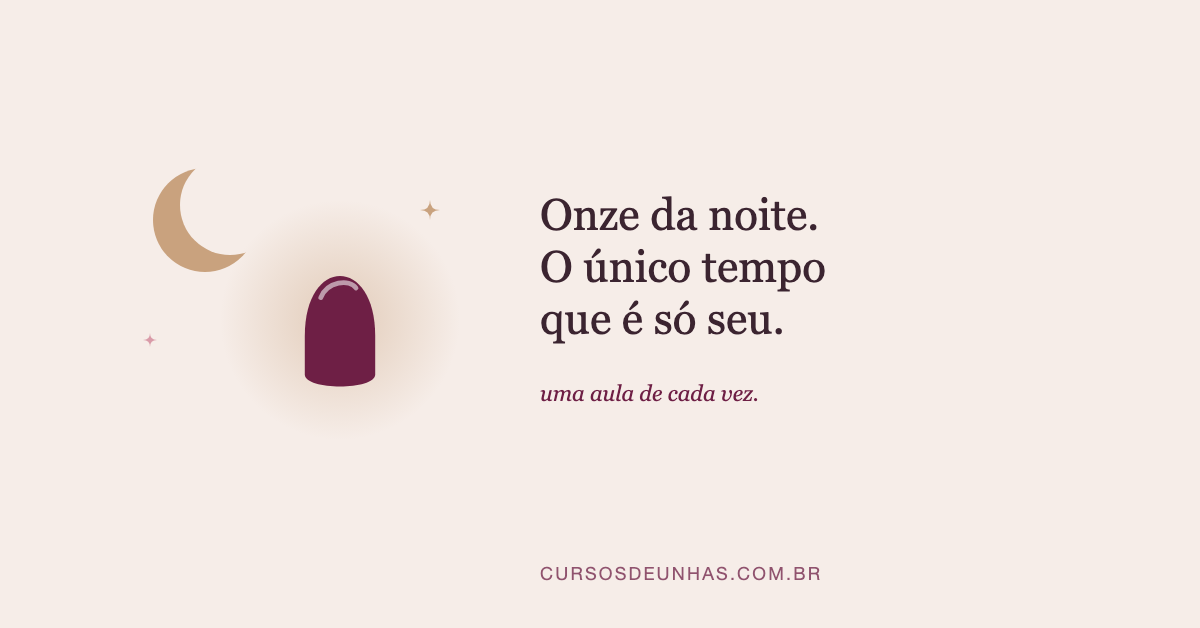
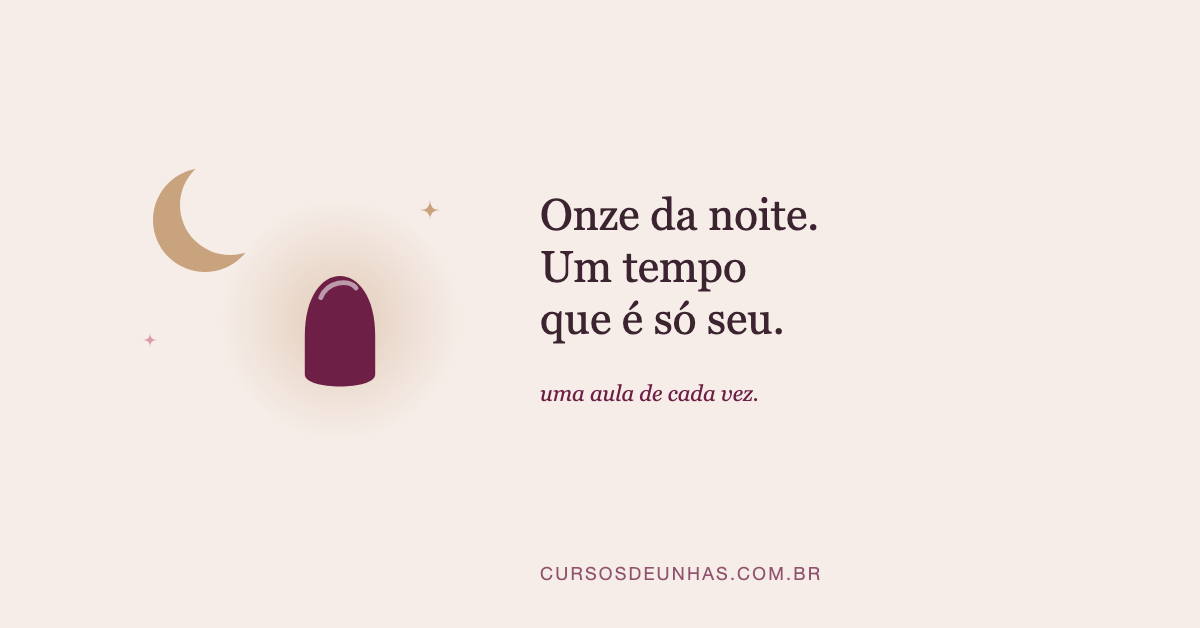
Copy revisada dos anuncios, /comecar/ com divulgacao de afiliado e titulo por src, artes N2-N4, politica de privacidade com Pixel e GTM

Changed region(s): [[0.4317, 0.3933, 0.7092, 0.4538]]

diff --git a/docs/comecar/index.html b/docs/comecar/index.html
@@ -9,14 +9,14 @@
 :root{--bg:#F6EDE8;--plum:#6E1F45;--rose:#D99BA8;--gold:#C9A27E;--ink:#3B2430;--mute:#7b6670}
 *{box-sizing:border-box}body{margin:0;background:var(--bg);color:var(--ink);font:17px/1.6 -apple-system,'Helvetica Neue',Arial,sans-serif}
 .w{max-width:620px;margin:0 auto;padding:0 20px}.serif{font-family:Georgia,'Times New Roman',serif}
-header{padding:56px 0 8px;text-align:center}header svg{width:220px;height:auto}
+header{padding:28px 0 4px;text-align:center}header svg{width:150px;height:auto}
 h1{font:400 2.1rem/1.2 Georgia,serif;margin:22px 0 10px}h1 em{color:var(--plum)}
 .lead{color:var(--mute);font-size:1.05rem;margin:0 auto;max-width:30em}
 .story{margin:44px 0 8px;text-align:center;font:italic 1.15rem/1.7 Georgia,serif;color:var(--ink)}
 .story span{display:block;opacity:0;transform:translateY(8px);animation:in .9s ease forwards}
 .story span:nth-child(2){animation-delay:.5s}.story span:nth-child(3){animation-delay:1s}.story span:nth-child(4){animation-delay:1.5s;color:var(--plum)}
 @keyframes in{to{opacity:1;transform:none}}@media(prefers-reduced-motion:reduce){.story span{animation:none;opacity:1;transform:none}}
-h2{font:400 1.45rem/1.3 Georgia,serif;text-align:center;margin:52px 0 6px}.q{text-align:center;color:var(--mute);margin:0 0 20px}
+h2{font:400 1.45rem/1.3 Georgia,serif;text-align:center;margin:32px 0 6px}.q{text-align:center;color:var(--mute);margin:0 0 20px}
 .opt{display:flex;gap:16px;align-items:center;background:#fff;border:1px solid #ecdcd4;border-radius:18px;padding:18px;margin:12px 0;text-decoration:none;color:inherit;transition:border-color .2s,transform .2s}
 .opt:hover,.opt:focus-visible{border-color:var(--plum);transform:translateY(-2px);outline:none}
 .opt svg{flex:0 0 46px}.opt b{display:block;font:400 1.15rem/1.3 Georgia,serif;color:var(--ink)}.opt small{color:var(--mute);font-size:.92rem;line-height:1.45;display:block;margin-top:3px}
@@ -33,21 +33,23 @@ footer{margin-top:56px;padding:22px 0 40px;border-top:1px solid #ecdcd4;font-siz
 <g><use href="#n" x="160" y="75" fill="#A24E6F"/></g><g transform="rotate(32 160 170)"><use href="#n" x="160" y="75" fill="#86325A"/></g>
 <g transform="rotate(64 160 170)"><use href="#n" x="160" y="75" fill="#6E1F45"/></g></svg>
 <h1>Não começou com coragem.<br><em>Começou com uma decisão pequena.</em></h1>
-<p class="lead">Aprender. No seu tempo, sem sair de casa, com quem já ensinou milhares de pessoas.</p>
+<p class="lead">Aprender. No seu tempo, sem sair de casa, com cursos que somam mais de 3 mil avaliações de alunos.</p>
 </header>
 <main class="w">
-<p class="story"><span>Primeiro, nas próprias unhas.</span><span>Depois, na irmã.</span><span>Depois, na vizinha.</span><span>Hoje, a agenda tem nome — e é dela.</span></p>
 <h2>Em que momento você está?</h2>
-<p class="q">Escolha e a gente mostra o caminho que faz sentido.</p>
-<a class="opt" href="/ir/curso-de-manicure-e-pedicure-profissional/" data-c="zero"><svg viewBox="0 0 46 46"><circle cx="23" cy="23" r="22" fill="#F6EDE8"/><path d="M15,24 C15,10 31,10 31,24 L31,30 C31,34 15,34 15,30 Z" fill="none" stroke="#D99BA8" stroke-width="2.5"/></svg><span><b>Quero começar do zero</b><small>Manicure e pedicure com certificado. A opção mais em conta — até R$ 49,90 quando conferimos.</small></span><i>→</i></a>
-<a class="opt" href="/ir/nail-academy/" data-c="completa"><svg viewBox="0 0 46 46"><circle cx="23" cy="23" r="22" fill="#F6EDE8"/><path d="M15,24 C15,10 31,10 31,24 L31,30 C31,34 15,34 15,30 Z" fill="#6E1F45"/></svg><span><b>Quero um caminho completo</b><small>Do básico ao alongamento e decoração, em 17 níveis. Nota 4,8 entre alunos.</small></span><i>→</i></a>
-<a class="opt" href="/ir/escola-designer-de-unhas/" data-c="alongamento"><svg viewBox="0 0 46 46"><circle cx="23" cy="23" r="22" fill="#F6EDE8"/><path d="M15,26 C15,6 31,6 31,26 L31,30 C31,34 15,34 15,30 Z" fill="#A24E6F"/><path d="M33,11 q0,4 4,4 q-4,0 -4,4 q0,-4 -4,-4 q4,0 4,-4z" fill="#C9A27E"/></svg><span><b>Já faço unhas, quero alongamento</b><small>Fibra, gel, polygel e nail art com certificado. Mais de 2 mil avaliações, nota 4,7.</small></span><i>→</i></a>
-<div class="trust"><span>Certificado</span><span>Garantia de 7 dias</span><span>Acesso on-line</span><span>Estude no seu ritmo</span></div>
+<p class="q">Escolha e a gente mostra o caminho que faz sentido.<br><small>Os três são cursos on-line de um mesmo produtor. Somos afiliados: recebemos comissão se você comprar por estes links, sem custo extra. O botão abre a página oficial do curso.</small></p>
+<a class="opt" href="/ir/curso-de-manicure-e-pedicure-profissional/" data-c="zero"><svg viewBox="0 0 46 46"><circle cx="23" cy="23" r="22" fill="#F6EDE8"/><path d="M15,24 C15,10 31,10 31,24 L31,30 C31,34 15,34 15,30 Z" fill="none" stroke="#D99BA8" stroke-width="2.5"/></svg><span><b>Quero começar do zero</b><small>Manicure e pedicure, com certificado e garantia de 7 dias. A mais em conta: R$ 49,90 quando conferimos. Nota 4,9 (243 avaliações).</small></span><i>→</i></a>
+<a class="opt" href="/ir/nail-academy/" data-c="completa"><svg viewBox="0 0 46 46"><circle cx="23" cy="23" r="22" fill="#F6EDE8"/><path d="M15,24 C15,10 31,10 31,24 L31,30 C31,34 15,34 15,30 Z" fill="#6E1F45"/></svg><span><b>Quero um caminho completo</b><small>Do básico ao alongamento e decoração, em 17 níveis. R$ 100 quando conferimos, garantia de pelo menos 7 dias. Certificado: confirme na página oficial. Nota 4,8 (614 avaliações).</small></span><i>→</i></a>
+<a class="opt" href="/ir/escola-designer-de-unhas/" data-c="alongamento"><svg viewBox="0 0 46 46"><circle cx="23" cy="23" r="22" fill="#F6EDE8"/><path d="M15,26 C15,6 31,6 31,26 L31,30 C31,34 15,34 15,30 Z" fill="#A24E6F"/><path d="M33,11 q0,4 4,4 q-4,0 -4,4 q0,-4 -4,-4 q4,0 4,-4z" fill="#C9A27E"/></svg><span><b>Já faço unhas, quero alongamento</b><small>Fibra, gel, polygel e nail art, com certificado. R$ 147 quando conferimos, garantia de pelo menos 7 dias. Nota 4,7 (2.245 avaliações).</small></span><i>→</i></a>
+<div class="trust"><span>Garantia de pelo menos 7 dias</span><span>Acesso on-line</span><span>Estude no seu ritmo</span></div>
+<p class="story"><span>Primeiro, nas próprias unhas.</span><span>Depois, na irmã.</span><span>Depois, na vizinha.</span><span>Hoje, cada unha bem-feita tem a assinatura dela.</span></p>
 <p class="close">Um dia você vai olhar pra trás<br>e agradecer por essa decisão pequena.</p>
 </main>
-<footer class="w">Guia independente. Podemos receber comissão quando você compra pelos nossos links, sem custo extra para você. Notas e preços conferidos na plataforma de vendas em 07/11/2026; podem mudar.<br><a href="/melhor-curso-de-unhas-online/">Comparativo completo</a> · <a href="/aviso-legal/">Aviso legal</a> · <a href="/politica-de-privacidade/">Privacidade</a></footer>
+<footer class="w">Recebemos comissão quando você compra pelos nossos links, sem custo extra para você. Notas e preços conferidos na plataforma de vendas em 07/11/2026; podem mudar, e o parcelamento pode ter juros. Nenhum curso garante clientes ou renda: o resultado depende de prática.<br><a href="/melhor-curso-de-unhas-online/">Comparativo completo</a> · <a href="/aviso-legal/">Aviso legal</a> · <a href="/politica-de-privacidade/">Privacidade</a></footer>
 <script>
 (function(){var s=new URLSearchParams(location.search).get('src')||'lp';
+var H={'meta-n2':['Onze da noite.<br><em>Uma aula de cada vez.</em>','Aprender unhas no seu tempo, sem sair de casa.'],'meta-n3':['Unha é detalhe.<br><em>Aprender é aprender a cuidar.</em>','Do zero ou já fazendo unhas: veja o caminho que faz sentido.'],'meta-n4':['Escolha boa é com calma.<br><em>Leva dois minutos.</em>','Três caminhos, do zero ao alongamento, com preço e garantia lado a lado.']}[s];
+if(H){document.querySelector('h1').innerHTML=H[0];document.querySelector('.lead').textContent=H[1];}
 document.querySelectorAll('a.opt').forEach(function(a){a.href+='?src='+encodeURIComponent(s);a.addEventListener('click',function(){
 window.dataLayer&&dataLayer.push({event:'lp_escolha',caminho:a.dataset.c});window.fbq&&fbq('track','Lead',{content_name:a.dataset.c});});});})();
 </script>

diff --git a/static/lp/comecar.html b/static/lp/comecar.html
@@ -9,14 +9,14 @@
 :root{--bg:#F6EDE8;--plum:#6E1F45;--rose:#D99BA8;--gold:#C9A27E;--ink:#3B2430;--mute:#7b6670}
 *{box-sizing:border-box}body{margin:0;background:var(--bg);color:var(--ink);font:17px/1.6 -apple-system,'Helvetica Neue',Arial,sans-serif}
 .w{max-width:620px;margin:0 auto;padding:0 20px}.serif{font-family:Georgia,'Times New Roman',serif}
-header{padding:56px 0 8px;text-align:center}header svg{width:220px;height:auto}
+header{padding:28px 0 4px;text-align:center}header svg{width:150px;height:auto}
 h1{font:400 2.1rem/1.2 Georgia,serif;margin:22px 0 10px}h1 em{color:var(--plum)}
 .lead{color:var(--mute);font-size:1.05rem;margin:0 auto;max-width:30em}
 .story{margin:44px 0 8px;text-align:center;font:italic 1.15rem/1.7 Georgia,serif;color:var(--ink)}
 .story span{display:block;opacity:0;transform:translateY(8px);animation:in .9s ease forwards}
 .story span:nth-child(2){animation-delay:.5s}.story span:nth-child(3){animation-delay:1s}.story span:nth-child(4){animation-delay:1.5s;color:var(--plum)}
 @keyframes in{to{opacity:1;transform:none}}@media(prefers-reduced-motion:reduce){.story span{animation:none;opacity:1;transform:none}}
-h2{font:400 1.45rem/1.3 Georgia,serif;text-align:center;margin:52px 0 6px}.q{text-align:center;color:var(--mute);margin:0 0 20px}
+h2{font:400 1.45rem/1.3 Georgia,serif;text-align:center;margin:32px 0 6px}.q{text-align:center;color:var(--mute);margin:0 0 20px}
 .opt{display:flex;gap:16px;align-items:center;background:#fff;border:1px solid #ecdcd4;border-radius:18px;padding:18px;margin:12px 0;text-decoration:none;color:inherit;transition:border-color .2s,transform .2s}
 .opt:hover,.opt:focus-visible{border-color:var(--plum);transform:translateY(-2px);outline:none}
 .opt svg{flex:0 0 46px}.opt b{display:block;font:400 1.15rem/1.3 Georgia,serif;color:var(--ink)}.opt small{color:var(--mute);font-size:.92rem;line-height:1.45;display:block;margin-top:3px}
@@ -33,21 +33,23 @@ footer{margin-top:56px;padding:22px 0 40px;border-top:1px solid #ecdcd4;font-siz
 <g><use href="#n" x="160" y="75" fill="#A24E6F"/></g><g transform="rotate(32 160 170)"><use href="#n" x="160" y="75" fill="#86325A"/></g>
 <g transform="rotate(64 160 170)"><use href="#n" x="160" y="75" fill="#6E1F45"/></g></svg>
 <h1>Não começou com coragem.<br><em>Começou com uma decisão pequena.</em></h1>
-<p class="lead">Aprender. No seu tempo, sem sair de casa, com quem já ensinou milhares de pessoas.</p>
+<p class="lead">Aprender. No seu tempo, sem sair de casa, com cursos que somam mais de 3 mil avaliações de alunos.</p>
 </header>
 <main class="w">
-<p class="story"><span>Primeiro, nas próprias unhas.</span><span>Depois, na irmã.</span><span>Depois, na vizinha.</span><span>Hoje, a agenda tem nome — e é dela.</span></p>
 <h2>Em que momento você está?</h2>
-<p class="q">Escolha e a gente mostra o caminho que faz sentido.</p>
-<a class="opt" href="/ir/curso-de-manicure-e-pedicure-profissional/" data-c="zero"><svg viewBox="0 0 46 46"><circle cx="23" cy="23" r="22" fill="#F6EDE8"/><path d="M15,24 C15,10 31,10 31,24 L31,30 C31,34 15,34 15,30 Z" fill="none" stroke="#D99BA8" stroke-width="2.5"/></svg><span><b>Quero começar do zero</b><small>Manicure e pedicure com certificado. A opção mais em conta — até R$ 49,90 quando conferimos.</small></span><i>→</i></a>
-<a class="opt" href="/ir/nail-academy/" data-c="completa"><svg viewBox="0 0 46 46"><circle cx="23" cy="23" r="22" fill="#F6EDE8"/><path d="M15,24 C15,10 31,10 31,24 L31,30 C31,34 15,34 15,30 Z" fill="#6E1F45"/></svg><span><b>Quero um caminho completo</b><small>Do básico ao alongamento e decoração, em 17 níveis. Nota 4,8 entre alunos.</small></span><i>→</i></a>
-<a class="opt" href="/ir/escola-designer-de-unhas/" data-c="alongamento"><svg viewBox="0 0 46 46"><circle cx="23" cy="23" r="22" fill="#F6EDE8"/><path d="M15,26 C15,6 31,6 31,26 L31,30 C31,34 15,34 15,30 Z" fill="#A24E6F"/><path d="M33,11 q0,4 4,4 q-4,0 -4,4 q0,-4 -4,-4 q4,0 4,-4z" fill="#C9A27E"/></svg><span><b>Já faço unhas, quero alongamento</b><small>Fibra, gel, polygel e nail art com certificado. Mais de 2 mil avaliações, nota 4,7.</small></span><i>→</i></a>
-<div class="trust"><span>Certificado</span><span>Garantia de 7 dias</span><span>Acesso on-line</span><span>Estude no seu ritmo</span></div>
+<p class="q">Escolha e a gente mostra o caminho que faz sentido.<br><small>Os três são cursos on-line de um mesmo produtor. Somos afiliados: recebemos comissão se você comprar por estes links, sem custo extra. O botão abre a página oficial do curso.</small></p>
+<a class="opt" href="/ir/curso-de-manicure-e-pedicure-profissional/" data-c="zero"><svg viewBox="0 0 46 46"><circle cx="23" cy="23" r="22" fill="#F6EDE8"/><path d="M15,24 C15,10 31,10 31,24 L31,30 C31,34 15,34 15,30 Z" fill="none" stroke="#D99BA8" stroke-width="2.5"/></svg><span><b>Quero começar do zero</b><small>Manicure e pedicure, com certificado e garantia de 7 dias. A mais em conta: R$ 49,90 quando conferimos. Nota 4,9 (243 avaliações).</small></span><i>→</i></a>
+<a class="opt" href="/ir/nail-academy/" data-c="completa"><svg viewBox="0 0 46 46"><circle cx="23" cy="23" r="22" fill="#F6EDE8"/><path d="M15,24 C15,10 31,10 31,24 L31,30 C31,34 15,34 15,30 Z" fill="#6E1F45"/></svg><span><b>Quero um caminho completo</b><small>Do básico ao alongamento e decoração, em 17 níveis. R$ 100 quando conferimos, garantia de pelo menos 7 dias. Certificado: confirme na página oficial. Nota 4,8 (614 avaliações).</small></span><i>→</i></a>
+<a class="opt" href="/ir/escola-designer-de-unhas/" data-c="alongamento"><svg viewBox="0 0 46 46"><circle cx="23" cy="23" r="22" fill="#F6EDE8"/><path d="M15,26 C15,6 31,6 31,26 L31,30 C31,34 15,34 15,30 Z" fill="#A24E6F"/><path d="M33,11 q0,4 4,4 q-4,0 -4,4 q0,-4 -4,-4 q4,0 4,-4z" fill="#C9A27E"/></svg><span><b>Já faço unhas, quero alongamento</b><small>Fibra, gel, polygel e nail art, com certificado. R$ 147 quando conferimos, garantia de pelo menos 7 dias. Nota 4,7 (2.245 avaliações).</small></span><i>→</i></a>
+<div class="trust"><span>Garantia de pelo menos 7 dias</span><span>Acesso on-line</span><span>Estude no seu ritmo</span></div>
+<p class="story"><span>Primeiro, nas próprias unhas.</span><span>Depois, na irmã.</span><span>Depois, na vizinha.</span><span>Hoje, cada unha bem-feita tem a assinatura dela.</span></p>
 <p class="close">Um dia você vai olhar pra trás<br>e agradecer por essa decisão pequena.</p>
 </main>
-<footer class="w">Guia independente. Podemos receber comissão quando você compra pelos nossos links, sem custo extra para você. Notas e preços conferidos na plataforma de vendas em 07/11/2026; podem mudar.<br><a href="/melhor-curso-de-unhas-online/">Comparativo completo</a> · <a href="/aviso-legal/">Aviso legal</a> · <a href="/politica-de-privacidade/">Privacidade</a></footer>
+<footer class="w">Recebemos comissão quando você compra pelos nossos links, sem custo extra para você. Notas e preços conferidos na plataforma de vendas em 07/11/2026; podem mudar, e o parcelamento pode ter juros. Nenhum curso garante clientes ou renda: o resultado depende de prática.<br><a href="/melhor-curso-de-unhas-online/">Comparativo completo</a> · <a href="/aviso-legal/">Aviso legal</a> · <a href="/politica-de-privacidade/">Privacidade</a></footer>
 <script>
 (function(){var s=new URLSearchParams(location.search).get('src')||'lp';
+var H={'meta-n2':['Onze da noite.<br><em>Uma aula de cada vez.</em>','Aprender unhas no seu tempo, sem sair de casa.'],'meta-n3':['Unha é detalhe.<br><em>Aprender é aprender a cuidar.</em>','Do zero ou já fazendo unhas: veja o caminho que faz sentido.'],'meta-n4':['Escolha boa é com calma.<br><em>Leva dois minutos.</em>','Três caminhos, do zero ao alongamento, com preço e garantia lado a lado.']}[s];
+if(H){document.querySelector('h1').innerHTML=H[0];document.querySelector('.lead').textContent=H[1];}
 document.querySelectorAll('a.opt').forEach(function(a){a.href+='?src='+encodeURIComponent(s);a.addEventListener('click',function(){
 window.dataLayer&&dataLayer.push({event:'lp_escolha',caminho:a.dataset.c});window.fbq&&fbq('track','Lead',{content_name:a.dataset.c});});});})();
 </script>

diff --git a/marketing/video.swift b/marketing/video.swift
@@ -1,0 +1,51 @@
+// Gera vídeo MP4 (zoom lento) a partir de uma arte PNG + narração MP3.
+// Uso: swift marketing/video.swift <arte.png> <narracao.mp3> <saida.mp4>
+import AVFoundation
+import AppKit
+
+let a = CommandLine.arguments
+let img = NSImage(contentsOfFile: a[1])!.cgImage(forProposedRect: nil, context: nil, hints: nil)!
+let W = img.width, H = img.height
+let audio = AVURLAsset(url: URL(fileURLWithPath: a[2]))
+let dur = CMTimeGetSeconds(audio.duration) + 1.0
+let tmp = URL(fileURLWithPath: a[3] + ".tmp.mov")
+try? FileManager.default.removeItem(at: tmp)
+let w = try! AVAssetWriter(outputURL: tmp, fileType: .mov)
+let inp = AVAssetWriterInput(mediaType: .video, outputSettings: [AVVideoCodecKey: AVVideoCodecType.h264, AVVideoWidthKey: W, AVVideoHeightKey: H])
+let ad = AVAssetWriterInputPixelBufferAdaptor(assetWriterInput: inp, sourcePixelBufferAttributes: [
+    kCVPixelBufferPixelFormatTypeKey as String: kCVPixelFormatType_32ARGB,
+    kCVPixelBufferWidthKey as String: W, kCVPixelBufferHeightKey as String: H])
+w.add(inp); w.startWriting(); w.startSession(atSourceTime: .zero)
+let fps = 30, n = Int(dur * Double(fps))
+for i in 0..<n {
+    while !inp.isReadyForMoreMediaData { usleep(1000) }
+    var pb: CVPixelBuffer?
+    CVPixelBufferPoolCreatePixelBuffer(nil, ad.pixelBufferPool!, &pb)
+    CVPixelBufferLockBaseAddress(pb!, [])
+    let ctx = CGContext(data: CVPixelBufferGetBaseAddress(pb!), width: W, height: H, bitsPerComponent: 8,
+                        bytesPerRow: CVPixelBufferGetBytesPerRow(pb!), space: CGColorSpaceCreateDeviceRGB(),
+                        bitmapInfo: CGImageAlphaInfo.noneSkipFirst.rawValue)!
+    let z = 1.0 + 0.07 * Double(i) / Double(n)
+    let dw = Double(W) * z, dh = Double(H) * z
+    ctx.draw(img, in: CGRect(x: (Double(W) - dw) / 2, y: (Double(H) - dh) / 2, width: dw, height: dh))
+    CVPixelBufferUnlockBaseAddress(pb!, [])
+    ad.append(pb!, withPresentationTime: CMTime(value: CMTimeValue(i), timescale: CMTimeScale(fps)))
+}
+inp.markAsFinished()
+let sem = DispatchSemaphore(value: 0)
+w.finishWriting { sem.signal() }; sem.wait()
+
+let comp = AVMutableComposition()
+let v = AVURLAsset(url: tmp)
+let vt = comp.addMutableTrack(withMediaType: .video, preferredTrackID: kCMPersistentTrackID_Invalid)!
+try! vt.insertTimeRange(CMTimeRange(start: .zero, duration: v.duration), of: v.tracks(withMediaType: .video)[0], at: .zero)
+let at = comp.addMutableTrack(withMediaType: .audio, preferredTrackID: kCMPersistentTrackID_Invalid)!
+try! at.insertTimeRange(CMTimeRange(start: .zero, duration: audio.duration), of: audio.tracks(withMediaType: .audio)[0],
+                        at: CMTime(value: 4, timescale: 10))
+let out = URL(fileURLWithPath: a[3])
+try? FileManager.default.removeItem(at: out)
+let ex = AVAssetExportSession(asset: comp, presetName: AVAssetExportPresetHighestQuality)!
+ex.outputURL = out; ex.outputFileType = .mp4
+ex.exportAsynchronously { sem.signal() }; sem.wait()
+try? FileManager.default.removeItem(at: tmp)
+print(ex.status == .completed ? "ok \(a[3]) \(Int(dur))s" : "erro \(String(describing: ex.error))")

diff --git a/docs/politica-de-privacidade/index.html b/docs/politica-de-privacidade/index.html
@@ -25,10 +25,10 @@
 <header class="top"><div class="w"><a class="logo" href="/">💅 Cursos de Unhas</a><nav aria-label="Principal"><a href="/melhor-curso-de-unhas-online/">Melhores cursos</a><a href="/vale-a-pena-fazer-curso-de-unha-em-gel/">Vale a pena?</a><a href="/sobre/">Sobre</a></nav></div></header>
 <main id="c" class="w"><nav class="crumb" aria-label="Trilha"><a href="/">Início</a> › Privacidade</nav><article>
 <h1>Política de Privacidade</h1>
-<p class="meta">Atualizada em 07/11/2026.</p>
+<p class="meta">Atualizada em 08/11/2026.</p>
 <p>Esta política explica como o Cursos de Unhas (“site”) trata dados pessoais, em conformidade com a Lei Geral de Proteção de Dados (Lei 13.709/2018).</p>
 <h2>Dados que coletamos</h2>
-<p>O site não tem cadastro, formulários nem cookies próprios. Não coletamos nome, e-mail ou outros dados, exceto se você nos escrever por e-mail; nesse caso, usamos a mensagem apenas para responder.</p>
+<p>O site não tem cadastro nem formulários. Para medir visitas e o resultado dos nossos anúncios, usamos ferramentas de terceiros que gravam cookies e identificadores no seu navegador: as ferramentas do Google (Tag Manager e medição de anúncios) e o Pixel da Meta (Facebook e Instagram). Elas registram dados técnicos, como páginas vistas, cliques nos links dos cursos, endereço IP e tipo de aparelho. O Google e a Meta podem usar esses dados para mostrar anúncios e medir resultados, conforme as políticas de privacidade deles. Você pode bloquear ou apagar esses cookies no seu navegador e ajustar os anúncios que vê em facebook.com/adpreferences e em myadcenter.google.com. Se você nos escrever por e-mail, usamos a mensagem apenas para responder.</p>
 <h2>Hospedagem</h2>
 <p>O site é hospedado no GitHub Pages, que pode registrar dados técnicos de acesso (como endereço IP) para segurança e funcionamento do serviço, conforme a política de privacidade do GitHub.</p>
 <h2>Links de afiliado e sites de terceiros</h2>

diff --git a/content/politica-de-privacidade.html b/content/politica-de-privacidade.html
@@ -1,8 +1,8 @@
 <!--META {"path":"/politica-de-privacidade/","type":"page","title":"Política de Privacidade | Cursos de Unhas","desc":"Como o Cursos de Unhas trata dados pessoais conforme a LGPD: o que coletamos, cookies, links de afiliado, hospedagem e como exercer seus direitos.","h1":"Política de Privacidade","crumb":"Privacidade"} -->
-<p class="meta">Atualizada em 07/11/2026.</p>
+<p class="meta">Atualizada em 08/11/2026.</p>
 <p>Esta política explica como o Cursos de Unhas (“site”) trata dados pessoais, em conformidade com a Lei Geral de Proteção de Dados (Lei 13.709/2018).</p>
 <h2>Dados que coletamos</h2>
-<p>O site não tem cadastro, formulários nem cookies próprios. Não coletamos nome, e-mail ou outros dados, exceto se você nos escrever por e-mail; nesse caso, usamos a mensagem apenas para responder.</p>
+<p>O site não tem cadastro nem formulários. Para medir visitas e o resultado dos nossos anúncios, usamos ferramentas de terceiros que gravam cookies e identificadores no seu navegador: as ferramentas do Google (Tag Manager e medição de anúncios) e o Pixel da Meta (Facebook e Instagram). Elas registram dados técnicos, como páginas vistas, cliques nos links dos cursos, endereço IP e tipo de aparelho. O Google e a Meta podem usar esses dados para mostrar anúncios e medir resultados, conforme as políticas de privacidade deles. Você pode bloquear ou apagar esses cookies no seu navegador e ajustar os anúncios que vê em facebook.com/adpreferences e em myadcenter.google.com. Se você nos escrever por e-mail, usamos a mensagem apenas para responder.</p>
 <h2>Hospedagem</h2>
 <p>O site é hospedado no GitHub Pages, que pode registrar dados técnicos de acesso (como endereço IP) para segurança e funcionamento do serviço, conforme a política de privacidade do GitHub.</p>
 <h2>Links de afiliado e sites de terceiros</h2>

diff --git a/marketing/gen_assets.py b/marketing/gen_assets.py
@@ -47,9 +47,9 @@ def symbol(k, cx, cy, s):
 
 CONCEPTS = {
     1: (["Não começou com coragem.", "Começou com uma", "decisão pequena."], "aprender."),
-    2: (["Onze da noite.", "O único tempo", "que é só seu."], "uma aula de cada vez."),
-    3: (["Unha é detalhe."], "mas é no detalhe que a gente volta a se sentir bonita."),
-    4: (["Recomeço bom", "é com calma."], "compare antes de escolher."),
+    2: (["Onze da noite.", "Um tempo", "que é só seu."], "uma aula de cada vez."),
+    3: (["Unha é detalhe."], "mas é no detalhe que muita gente volta a se sentir bonita."),
+    4: (["Escolha boa", "é com calma."], "três caminhos, lado a lado."),
 }
 
 

diff --git a/ads-campanha.md b/ads-campanha.md
@@ -28,5 +28,9 @@ Depois de ~15 vendas: trocar lance para Maximizar conversões.
 - Status: Qualificada (limitada) por poucas palavras relevantes; "melhor curso de unhas online" com baixo volume.
 - +15 palavras (frase): curso de unhas, curso de unha, curso de unha em gel, curso de unhas de gel, curso de alongamento de unhas, curso de alongamento em gel, curso de unha de fibra, curso de manicure, curso de manicure e pedicure, curso de nail designer, curso de unha online, curso de unhas com certificado, curso de esmaltação em gel, curso de unha polygel, aprender a fazer unha de gel.
 - Frases de destaque: Garantia de 7 Dias | Cursos com Certificado | Estude no Seu Ritmo | Comparativo Atualizado.
-- Sitelinks: Nail Academy, Escola Designer, Curso de Manicure, Unha em Gel Vale a Pena?
+- Sitelinks (corrigido em 08/11 para tirar nomes de marca): Formação Completa, Curso de Alongamento, Curso de Manicure, Unha em Gel Vale a Pena?
 - Parceiros de pesquisa desativados (só Pesquisa Google). CPC máx. R$1,20 mantido. Local: Brasil.
+
+## Revisão de 08/11/2026 (texto sem marca e sem superlativo)
+- Títulos: "Ranking Atualizado 2026" → "Comparativo Atualizado 2026"; "Análises Independentes" → "Análises Detalhadas"; grupo 1 "Com Certificado" → "Compare o Certificado".
+- Frase de destaque "Cursos com Certificado" → "Compare Certificados".
